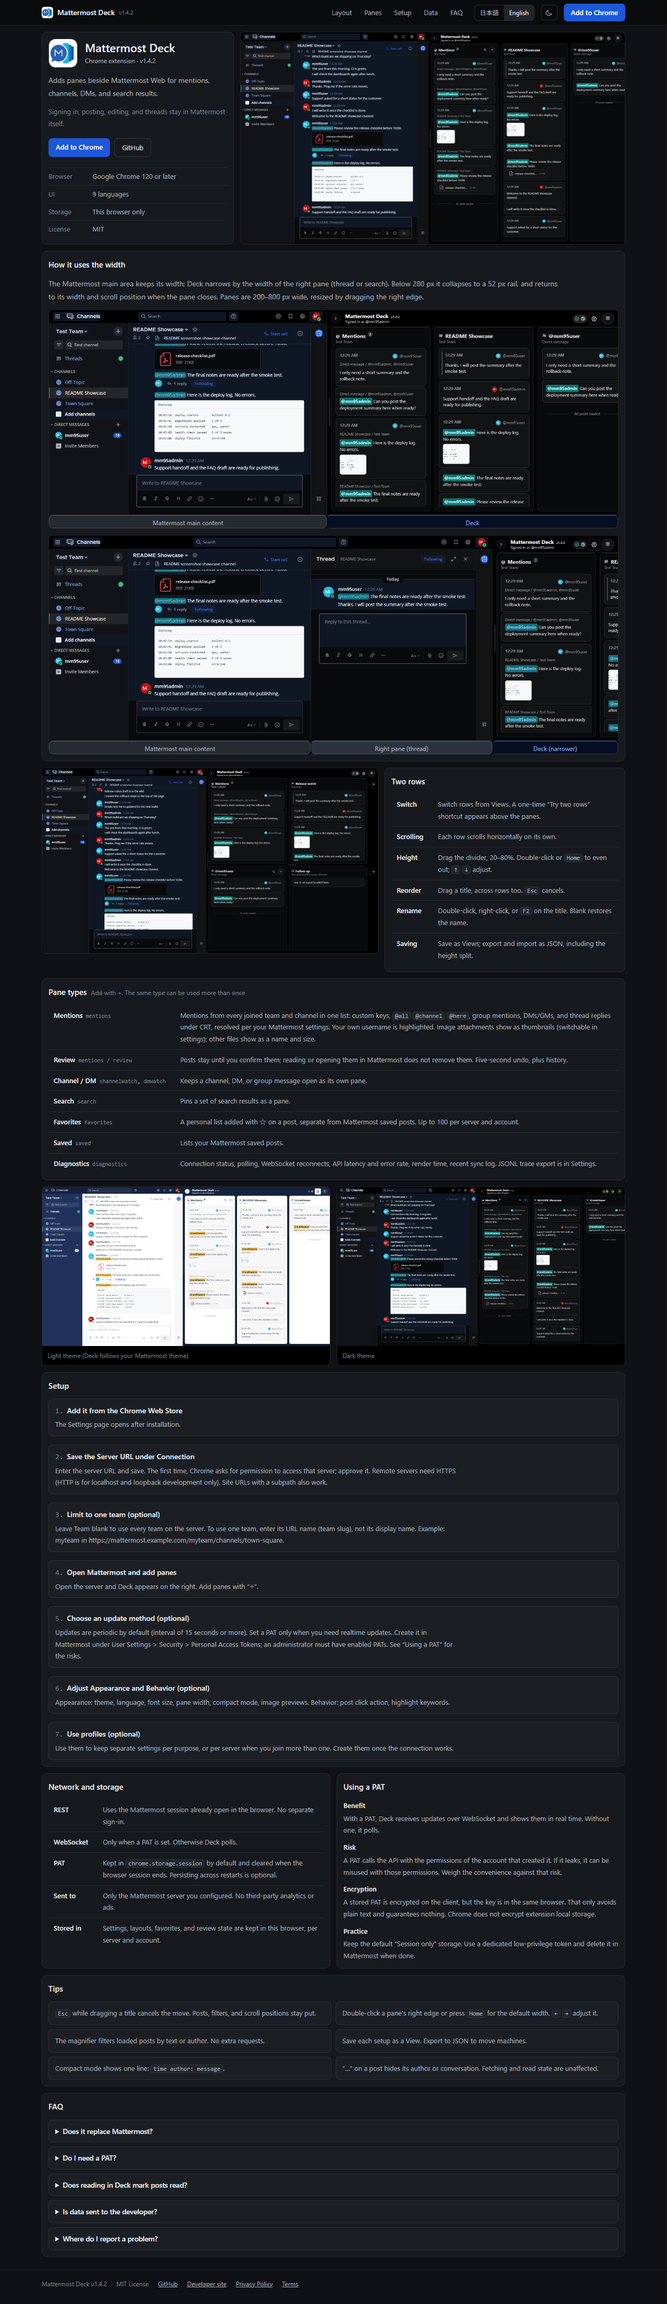
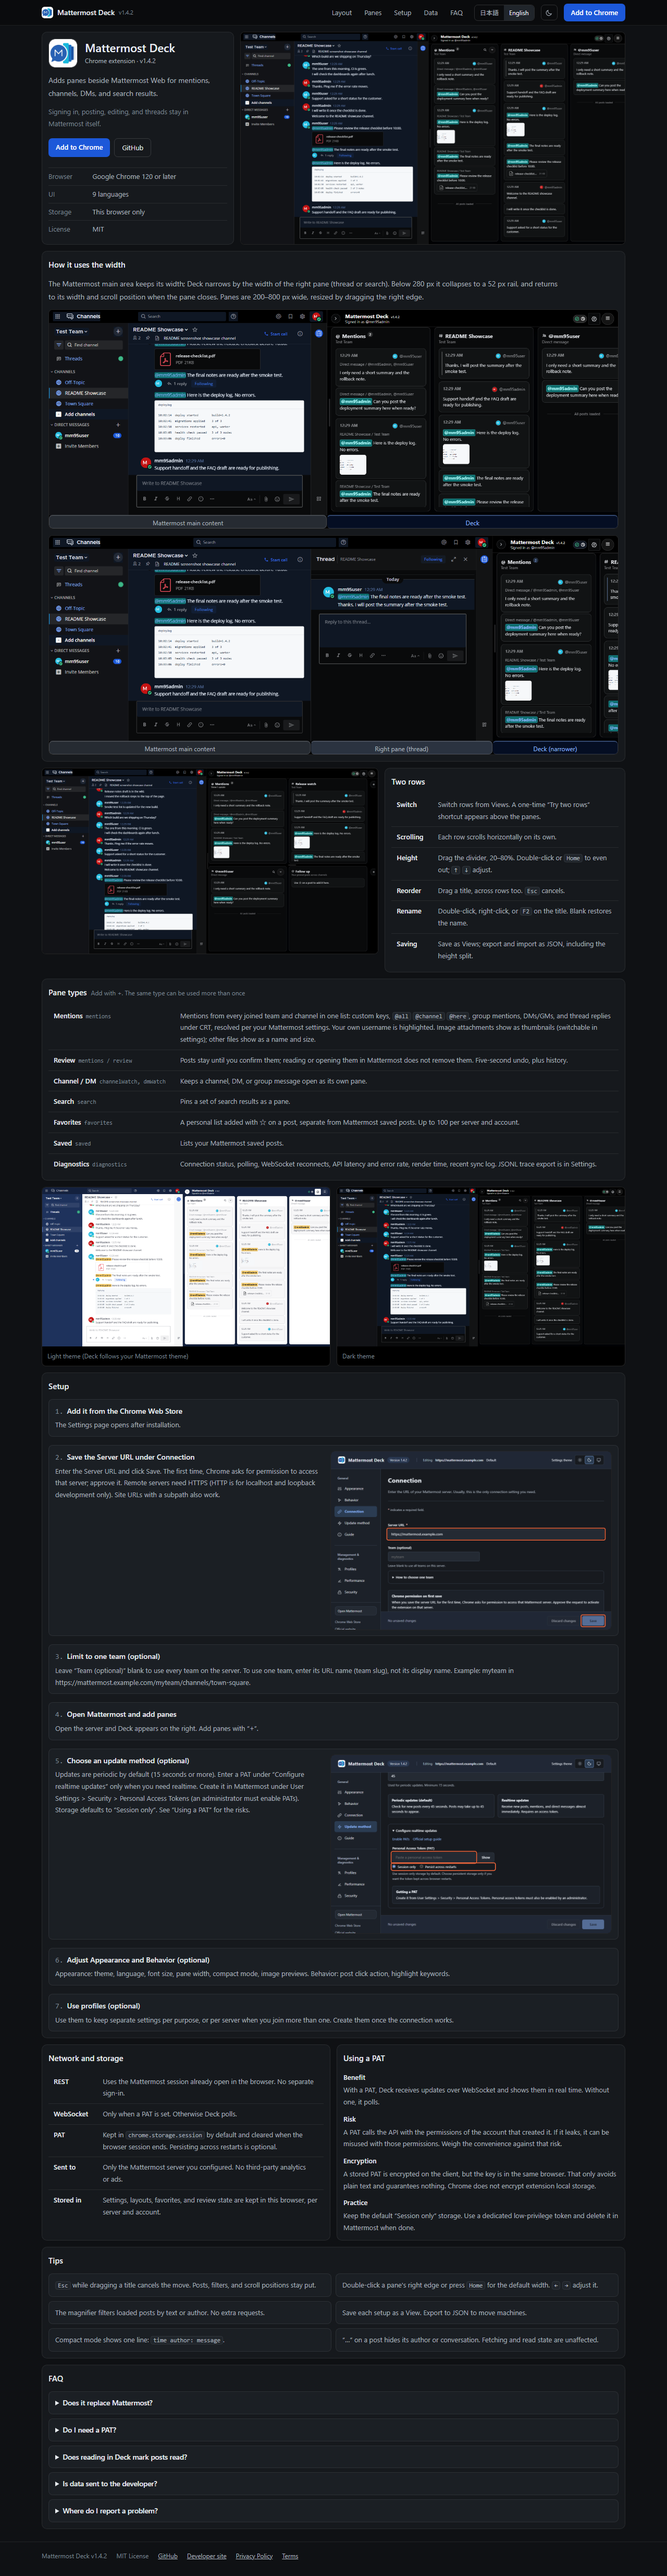
add: settings screenshots with outlines in setup steps; fix Japanese line breaking

diff --git a/mock/deck-tone.html b/mock/deck-tone.html
@@ -132,10 +132,10 @@
     <h2><span lang="ja">設定の手順</span><span lang="en">Setup</span></h2>
     <div class="steps">
       <div class="card"><b><span lang="ja">Chrome ウェブストアから追加</span><span lang="en">Add it from the Chrome Web Store</span></b><p><span lang="ja">インストールすると設定画面が開きます。</span><span lang="en">The Settings page opens after installation.</span></p></div>
-      <div class="card"><b><span lang="ja">「接続」で Server URL を保存</span><span lang="en">Save the Server URL under Connection</span></b><p><span lang="ja">Server URL を入力して保存します。初回は、そのサーバーへのアクセス許可を Chrome が求めるので承認します。リモートのサーバーは HTTPS が必要です（HTTP は localhost などの開発用のみ）。サブパス付きの Site URL も使えます。</span><span lang="en">Enter the server URL and save. The first time, Chrome asks for permission to access that server; approve it. Remote servers need HTTPS (HTTP is for localhost and loopback development only). Site URLs with a subpath also work.</span></p></div>
-      <div class="card"><b><span lang="ja">チームを絞る（任意）</span><span lang="en">Limit to one team (optional)</span></b><p><span lang="ja">Team を空欄にすると、サーバー上の全チームが対象です。1 つに絞るときは、表示名ではなく URL の名前（team slug）を入れます。例: https://mattermost.example.com/myteam/channels/town-square の myteam。</span><span lang="en">Leave Team blank to use every team on the server. To use one team, enter its URL name (team slug), not its display name. Example: myteam in https://mattermost.example.com/myteam/channels/town-square.</span></p></div>
+      <div class="card step has-shot"><div><b><span lang="ja">「接続」でサーバーURLを保存</span><span lang="en">Save the Server URL under Connection</span></b><p><span lang="ja">サーバーURLを入力して「保存」を押します。初回は、そのサーバーへのアクセス許可を Chrome が求めるので承認します。リモートのサーバーは HTTPS が必要です（HTTP は localhost などの開発用のみ）。サブパス付きの Site URL も使えます。</span><span lang="en">Enter the Server URL and click Save. The first time, Chrome asks for permission to access that server; approve it. Remote servers need HTTPS (HTTP is for localhost and loopback development only). Site URLs with a subpath also work.</span></p></div><figure class="shot opt"><img class="t-dark" lang="ja" src="shots/options-conn-dark-ja.png" width="1100" height="700" loading="lazy" alt="設定画面の「接続」。サーバーURLの欄と保存ボタンを枠で示している"><img class="t-dark" lang="en" src="shots/options-conn-dark-en.png" width="1100" height="700" loading="lazy" alt="The Connection page, with the Server URL field and Save button outlined"><img class="t-light" lang="ja" src="shots/options-conn-light-ja.png" width="1100" height="700" loading="lazy" alt="設定画面の「接続」。サーバーURLの欄と保存ボタンを枠で示している"><img class="t-light" lang="en" src="shots/options-conn-light-en.png" width="1100" height="700" loading="lazy" alt="The Connection page, with the Server URL field and Save button outlined"></figure></div>
+      <div class="card"><b><span lang="ja">チームを絞る（任意）</span><span lang="en">Limit to one team (optional)</span></b><p><span lang="ja">「対象チーム（任意）」を空欄にすると、サーバー上の全チームが対象です。1 つに絞るときは、表示名ではなく URL の名前（team slug）を入れます。例: https://mattermost.example.com/myteam/channels/town-square の myteam。</span><span lang="en">Leave “Team (optional)” blank to use every team on the server. To use one team, enter its URL name (team slug), not its display name. Example: myteam in https://mattermost.example.com/myteam/channels/town-square.</span></p></div>
       <div class="card"><b><span lang="ja">Mattermost を開いてペインを足す</span><span lang="en">Open Mattermost and add panes</span></b><p><span lang="ja">サーバーを開くと右側に Deck が出ます。「＋」からペインを追加します。</span><span lang="en">Open the server and Deck appears on the right. Add panes with “+”.</span></p></div>
-      <div class="card"><b><span lang="ja">「更新方法」を選ぶ（任意）</span><span lang="en">Choose an update method (optional)</span></b><p><span lang="ja">既定は定期更新です（間隔は 15 秒以上）。リアルタイム更新が必要なときだけ PAT を設定します。PAT は Mattermost の User Settings > Security > Personal Access Tokens で作成します。管理者側で PAT を有効にしておく必要があります。リスクは「PAT の扱い」を参照してください。</span><span lang="en">Updates are periodic by default (interval of 15 seconds or more). Set a PAT only when you need realtime updates. Create it in Mattermost under User Settings > Security > Personal Access Tokens; an administrator must have enabled PATs. See “Using a PAT” for the risks.</span></p></div>
+      <div class="card step has-shot"><div><b><span lang="ja">「更新方法」を選ぶ（任意）</span><span lang="en">Choose an update method (optional)</span></b><p><span lang="ja">既定は定期更新です（間隔は 15 秒以上）。リアルタイム更新が必要なときだけ、「リアルタイム更新を設定」に PAT を入力します。PAT は Mattermost の User Settings > Security > Personal Access Tokens で作成します（管理者側で有効化が必要）。保存方法は「セッションのみ」が既定です。リスクは「PAT の扱い」を参照してください。</span><span lang="en">Updates are periodic by default (15 seconds or more). Enter a PAT under “Configure realtime updates” only when you need realtime. Create it in Mattermost under User Settings > Security > Personal Access Tokens (an administrator must enable PATs). Storage defaults to “Session only”. See “Using a PAT” for the risks.</span></p></div><figure class="shot opt"><img class="t-dark" lang="ja" src="shots/options-pat-dark-ja.png" width="1100" height="700" loading="lazy" alt="設定画面の「更新方法」。PAT の入力欄と保存方法の選択を枠で示している"><img class="t-dark" lang="en" src="shots/options-pat-dark-en.png" width="1100" height="700" loading="lazy" alt="The Update method page, with the PAT field and storage choice outlined"><img class="t-light" lang="ja" src="shots/options-pat-light-ja.png" width="1100" height="700" loading="lazy" alt="設定画面の「更新方法」。PAT の入力欄と保存方法の選択を枠で示している"><img class="t-light" lang="en" src="shots/options-pat-light-en.png" width="1100" height="700" loading="lazy" alt="The Update method page, with the PAT field and storage choice outlined"></figure></div>
       <div class="card"><b><span lang="ja">外観・動作を調整する（任意）</span><span lang="en">Adjust Appearance and Behavior (optional)</span></b><p><span lang="ja">外観: テーマ、言語、文字サイズ、ペイン幅、コンパクト表示、画像プレビューなど。動作: 投稿クリック時の動作、ハイライトするキーワードなど。</span><span lang="en">Appearance: theme, language, font size, pane width, compact mode, image previews. Behavior: post click action, highlight keywords.</span></p></div>
       <div class="card"><b><span lang="ja">プロファイルを使う（任意）</span><span lang="en">Use profiles (optional)</span></b><p><span lang="ja">用途ごとに設定を分けたいとき、または複数のサーバーに参加していて設定をサーバーごとに分けたいときに使います。接続が動くことを確認してから作成します。</span><span lang="en">Use them to keep separate settings per purpose, or per server when you join more than one. Create them once the connection works.</span></p></div>
     </div>

diff --git a/mock/deck-tone.css b/mock/deck-tone.css
@@ -131,5 +131,10 @@ figcaption.pad{padding:0 10px 8px}
 .notes{display:grid;gap:10px;font-size:13px}
 .notes p{margin:0;color:var(--soft)}
 .notes b{display:block;color:var(--text);font-weight:600;margin-bottom:2px}
-.steps .card p{max-width:60em}
-.card p,.notes p,table.list td{overflow-wrap:anywhere}
+.card p,.notes p{overflow-wrap:break-word}
+table.list td{overflow-wrap:anywhere}
+body{word-break:auto-phrase;line-break:strict}
+p,td,li,summary{text-wrap:pretty}
+.step{display:grid;gap:12px}
+@media(min-width:900px){.step.has-shot{grid-template-columns:minmax(0,1fr) minmax(0,540px);gap:20px;align-items:start}}
+.step .shot{margin:0}
